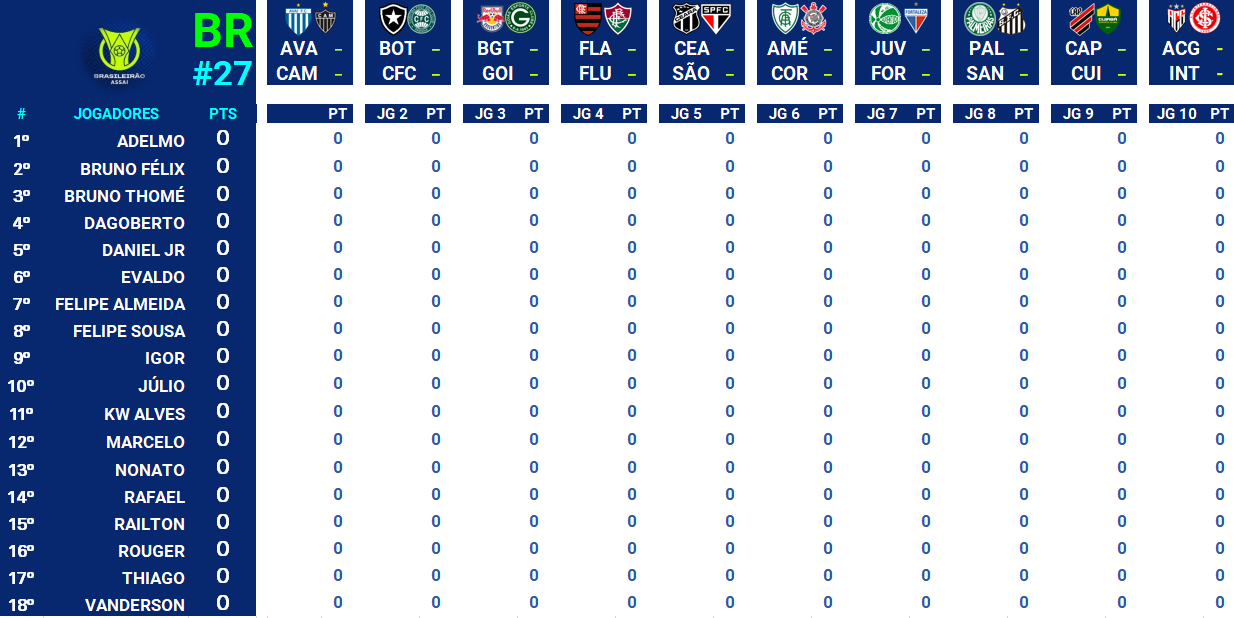
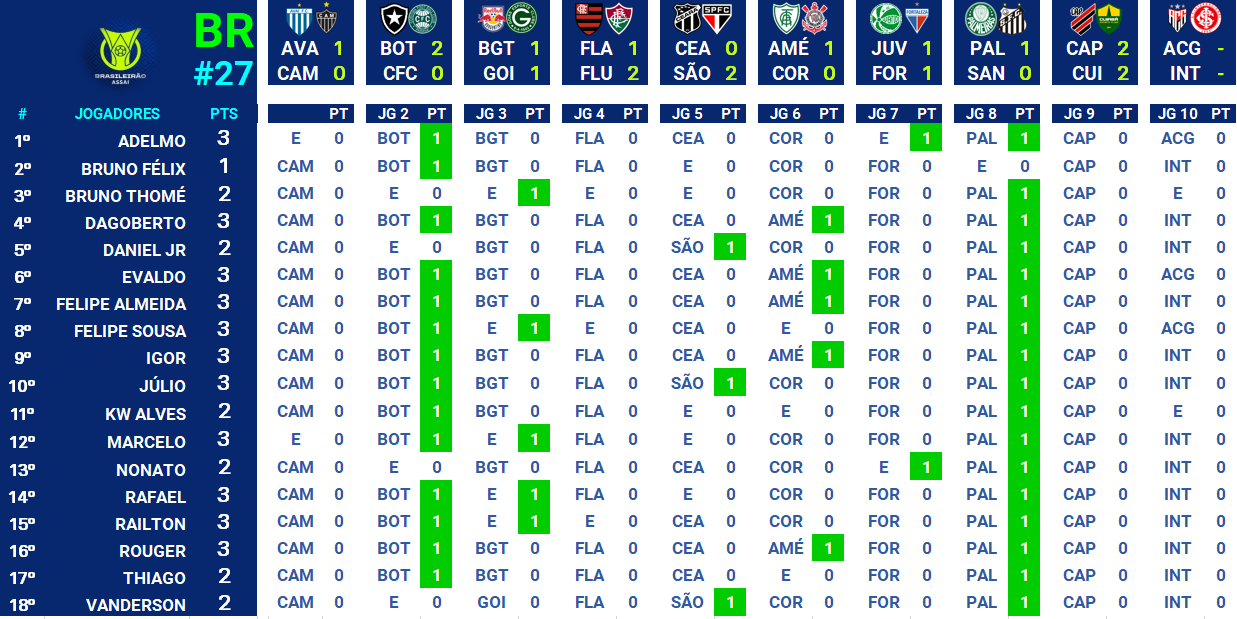
Atualização jogos de sábado e domingo

diff --git a/index.html b/index.html
@@ -51,16 +51,16 @@
         <div class="container grid">
           <div class="image">
             <img
-              src="./assets/fotos/mercadoaberto.png"
+              src="./assets/fotos/match27.PNG"
               alt="Logo do Campeonato Brasileiro 2022"
             />
           </div>
           <div class="text">
-            <h2 class="title"><a href="./palpites_27.html">27ª Rodada: Mercado aberto para palpites</a></h2>
+            <h2 class="title"><a href="./predictor.html">27ª Rodada: A bola tá rolando...</a></h2>
             <p>
-             Mercado fecha às 16:30 deste sábado 17/09
+             Fiquem atentos aos jogos.
             </p>
-           <a class="button" href="./palpites_27.html">PALPITE AQUI NA 27ª RODADA</a>
+           <a class="button" href="./predictor.html">RESUMO DA 27ª RODADA</a>
           </div>
         </div>
       </section>
